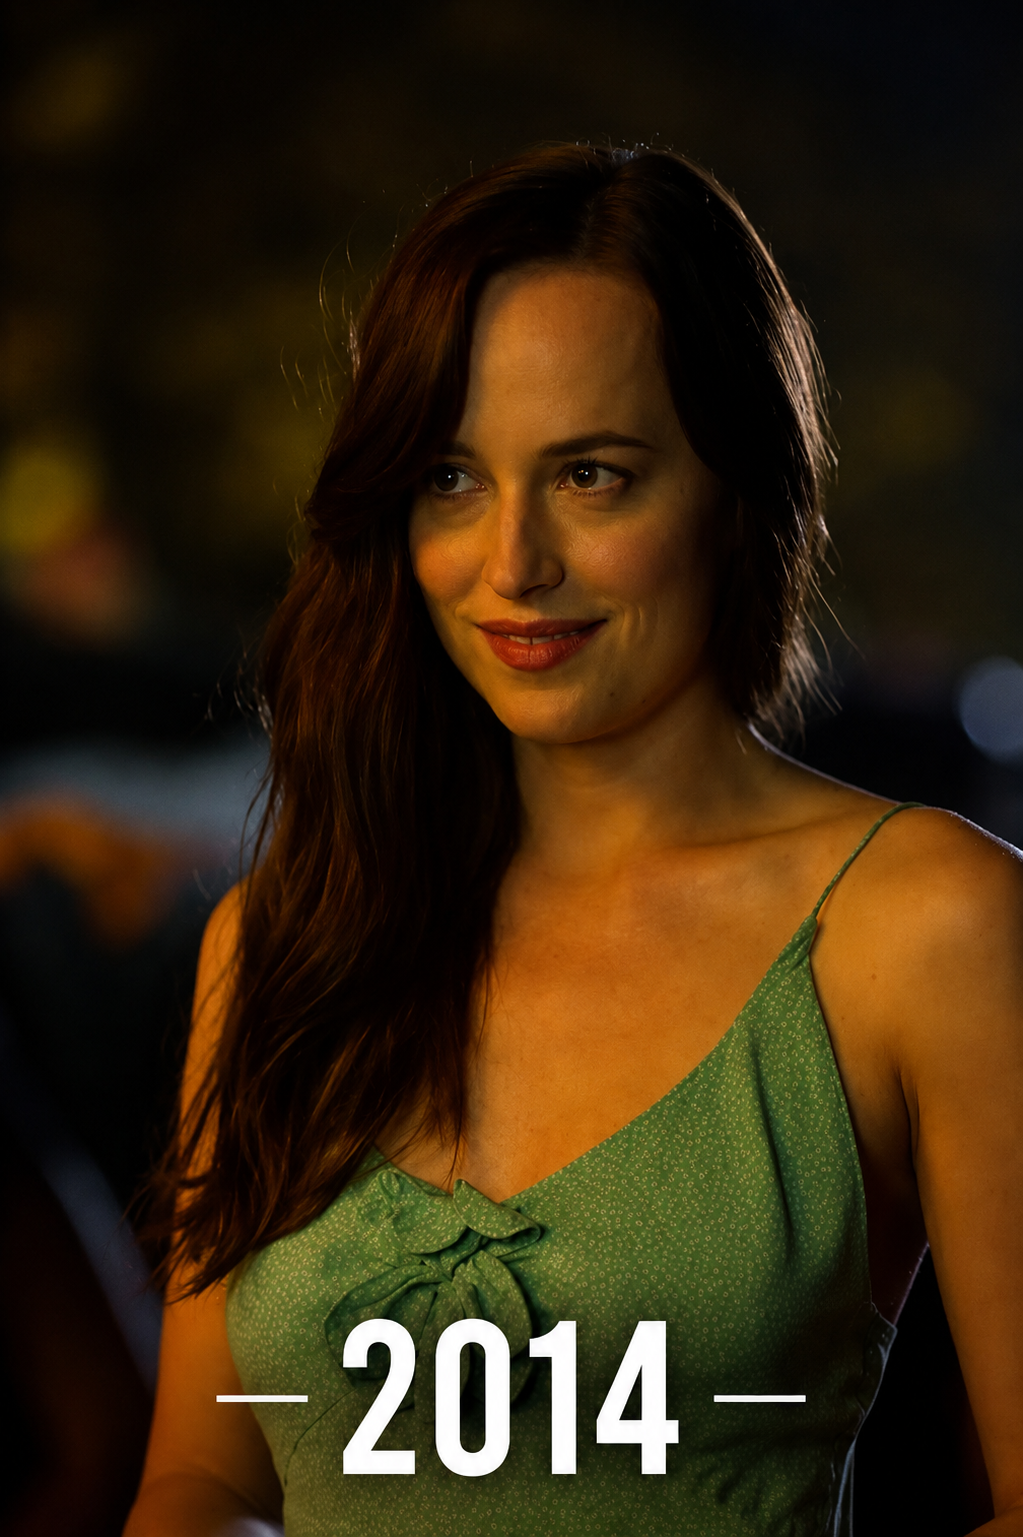
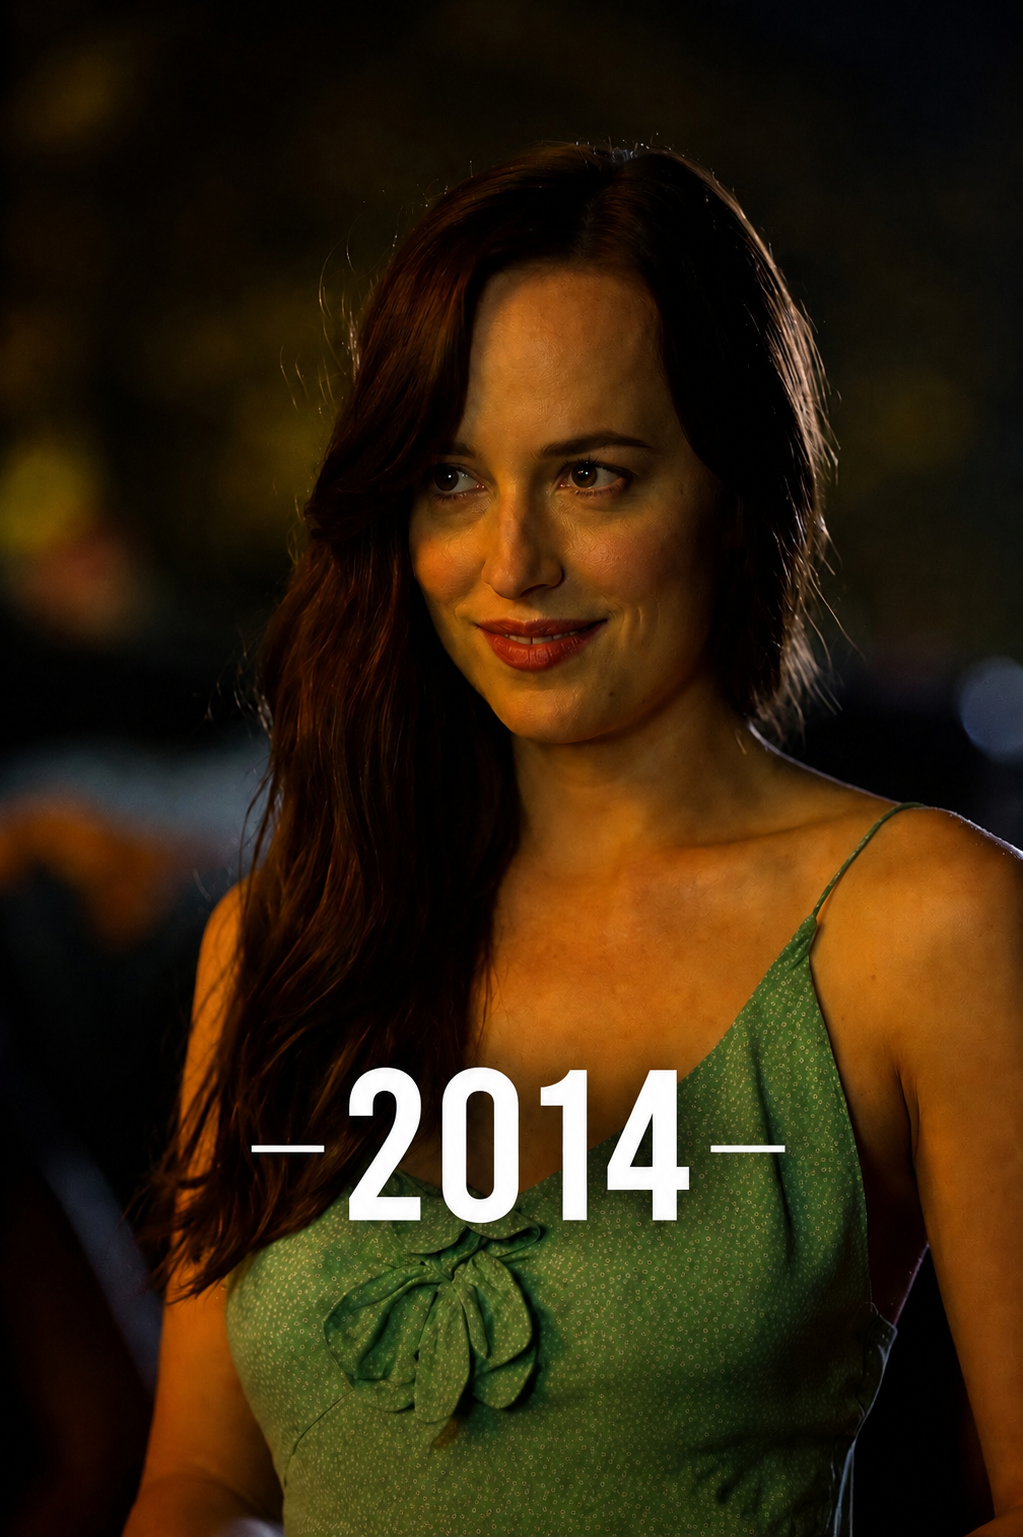
Cambios algunos

diff --git a/Styles/general.css b/Styles/general.css
@@ -256,7 +256,7 @@ footer {
     display:none;
 }
 
-@media (max-width: 768px) {
+@media (max-width: 1024px) {
 
     body{
         background-size: cover;
@@ -416,3 +416,32 @@ footer {
 
 }
 
+@media (max-width: 480px) {
+    .titulo{
+        font-size: 24px;
+    }
+
+    .card{
+        width: 100%;
+        max-width: none;
+    }
+
+    .card-image{
+        height: 150px;
+    }
+
+    .card-title{
+        font-size: 20px;
+    }
+
+    .card-text{
+        font-size: 16px;
+    }
+    .trailer-link{
+        font-size: 14px;
+        padding: 10px 15px;
+    }
+    body{
+        background-size: cover;
+        background-position: center;
+}}
